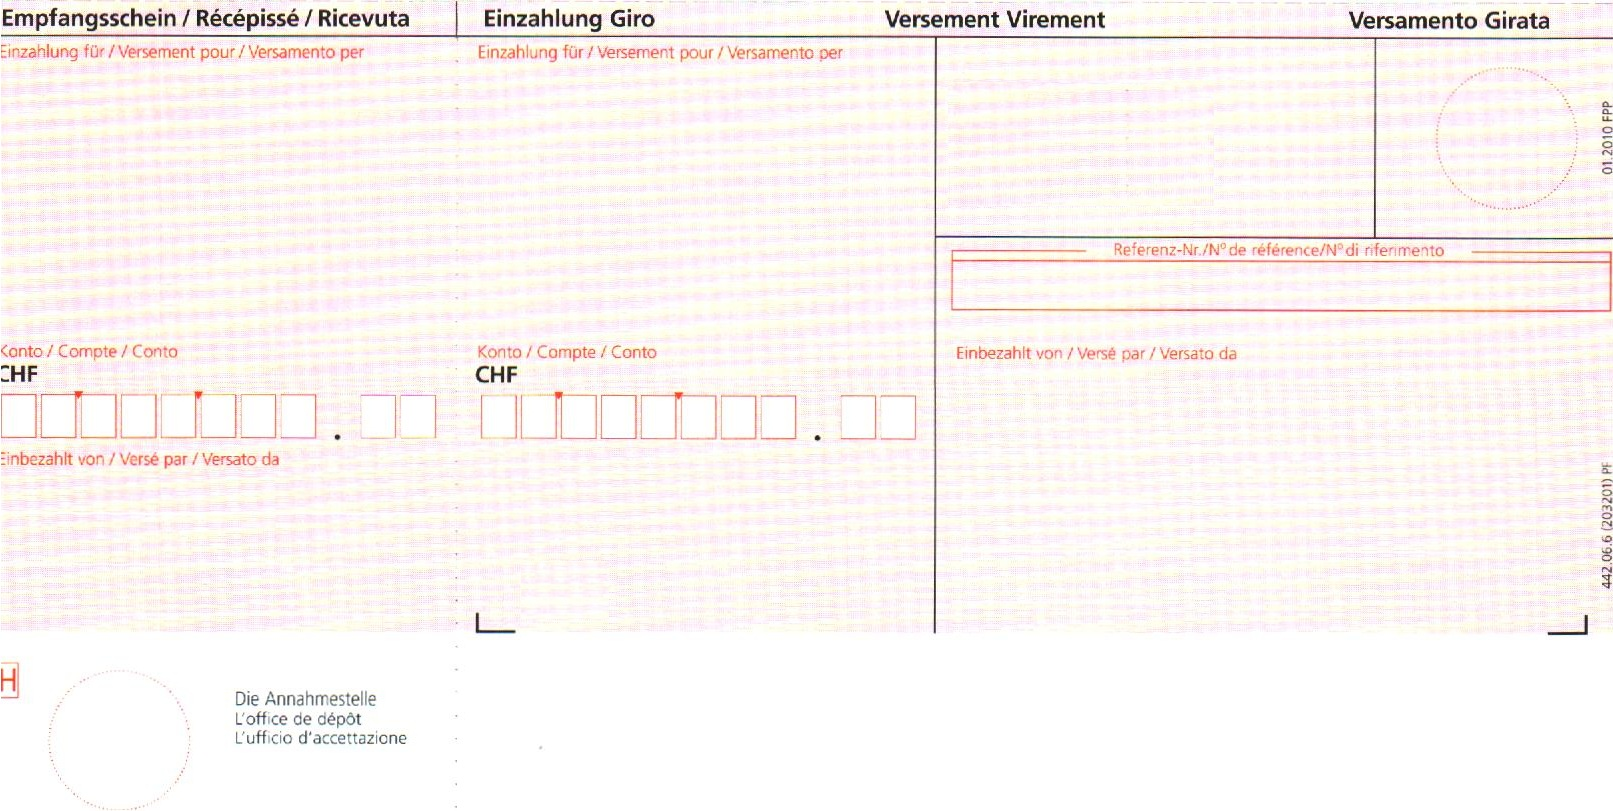
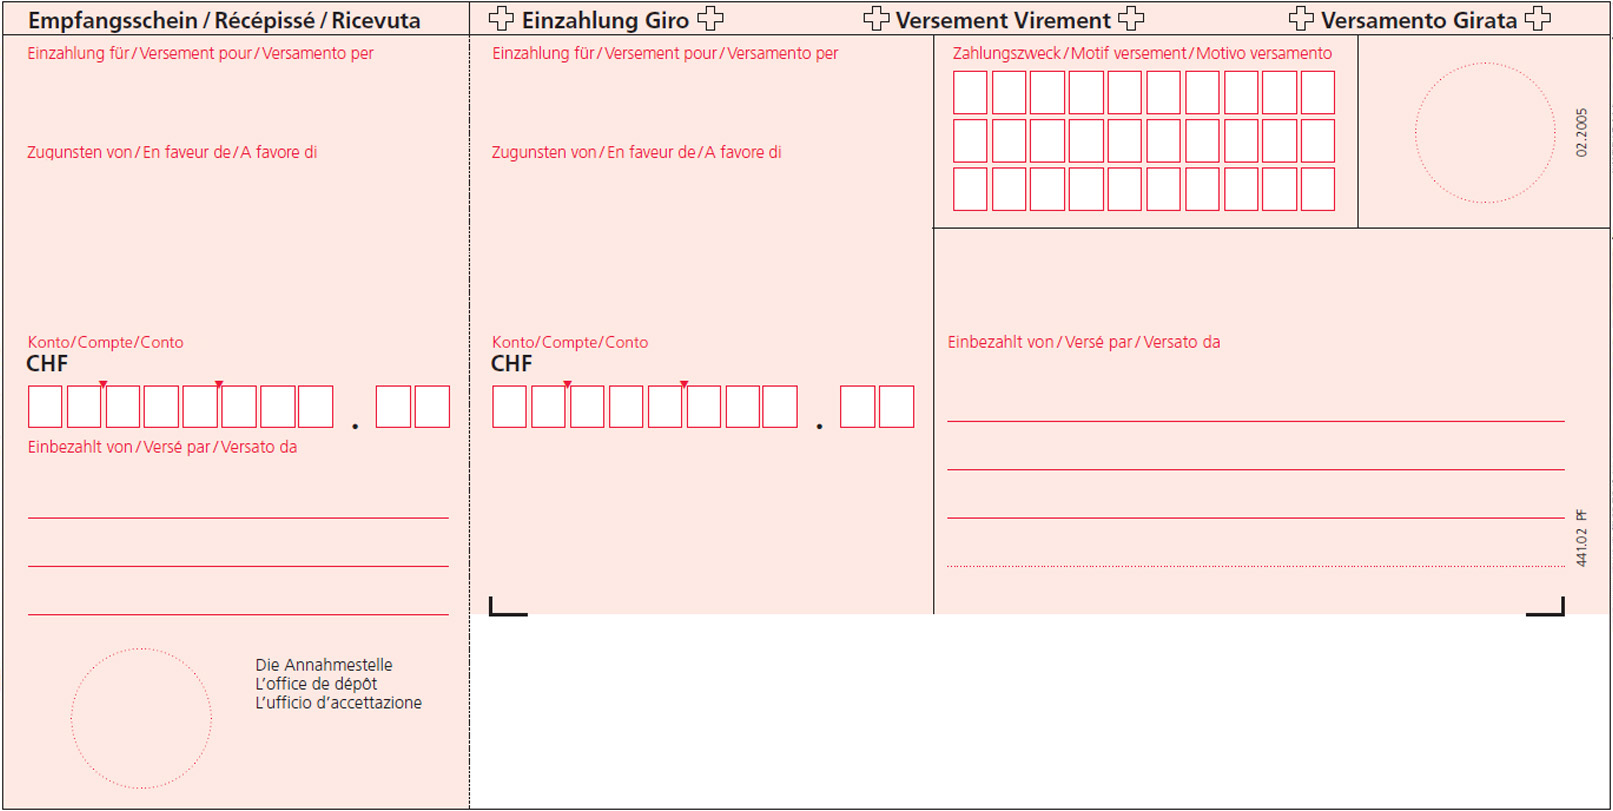
- Ajouté Window.SetNativeIconFromManifest qui permet de spécifier une icône .ICO directement pour une fenêtre. - Remplacé l'image de BV rouge scanné par un BV rouge "synthétique".
git-svn-id: https://svn.opac.ch/svn/cr/branches/vs2005/Epsitec.Cresus@12689 787ff09c-d2b5-7842-b444-8dd0a418631d

Changed region(s): [[0.0, 0.0, 1.0, 1.0], [0.403, 0.5857, 0.434, 0.6165]]

diff --git a/Epsitec.Cresus/App.BanquePiguet/BvWidget.cs b/Epsitec.Cresus/App.BanquePiguet/BvWidget.cs
@@ -12,9 +12,10 @@ using System.Xml.Linq;
 
 namespace Epsitec.App.BanquePiguet
 {
-
 	/// <summary>
 	/// The class BvWidget represents a bv and can display it either on the screen or on paper.
+	/// See http://www.postfinance.ch/medialib/pf/de/doc/consult/templ/chf/44103_templ.Par.0001.File.dat/44103_templ.pdf
+	/// for the full specification.
 	/// </summary>
 	class BvWidget : Widget
 	{

diff --git a/Epsitec.Cresus/Common.Widgets/Window.cs b/Epsitec.Cresus/Common.Widgets/Window.cs
@@ -224,6 +224,14 @@ namespace Epsitec.Common.Widgets
 				this.window.Focus ();
 			}
 		}
+
+		public void SetNativeIconFromManifest(System.Reflection.Assembly assembly, string resourceName)
+		{
+			using (var stream = assembly.GetManifestResourceStream (resourceName))
+			{
+				this.window.SetNativeIcon (stream);
+			}
+		}
 		
 		
 		public void DisableMouseActivation()

diff --git a/Epsitec.Cresus/Common.Widgets/Platform/Window.cs b/Epsitec.Cresus/Common.Widgets/Platform/Window.cs
@@ -979,6 +979,12 @@ namespace Epsitec.Common.Widgets.Platform
 				}
 			}
 		}
+
+		internal void SetNativeIcon(System.IO.Stream iconStream)
+		{
+			System.Drawing.Icon nativeIcon = new System.Drawing.Icon (iconStream);
+			base.Icon = nativeIcon;
+		}
 		
 		internal double							Alpha
 		{

diff --git a/Epsitec.Cresus/App.BanquePiguet/Application.cs b/Epsitec.Cresus/App.BanquePiguet/Application.cs
@@ -164,6 +164,8 @@ namespace Epsitec.App.BanquePiguet
 			{
 				Text = this.ShortWindowTitle,
 			};
+
+			this.Window.SetNativeIconFromManifest (System.Reflection.Assembly.GetExecutingAssembly (), "Epsitec.App.BanquePiguet.Resources.app.ico");
 			this.Window.MakeFixedSizeWindow ();
 		}
 
